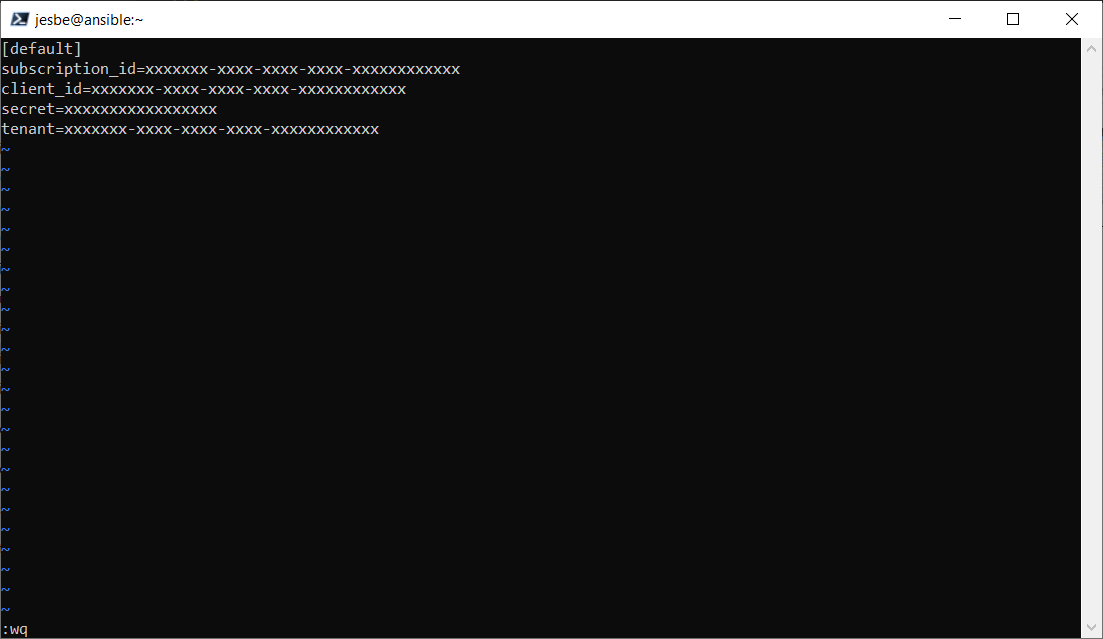
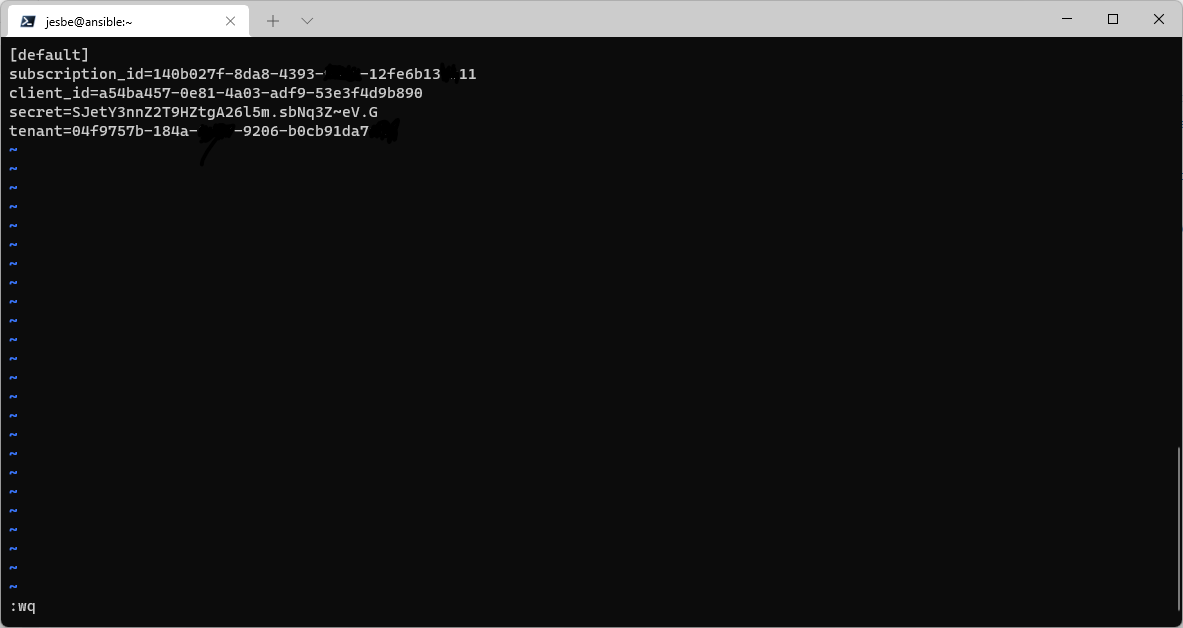
lab6 task2

diff --git a/lab06/lab6.md b/lab06/lab6.md
@@ -39,69 +39,47 @@ ansible-galaxy collection install azure.azcollection
 
 We need to register an azure application to enable ansible automation
 
+You can do it in the Cloud Shell thats our __preferred__ method or __OPTIONAL__ you can do it using the gui in the browser [Azure GUI](azure_gui.md)
+
 In your browser log on to [https://portal.azure.com](https://portal.azure.com)
 
-In the left pane, click "Azure Active Directory" and "App Registrations"
+In the top bar, click the "cloudshell" icon marked with red
 
-In the top click "New registration"
+![Alt text](pics/01_start_cloud_shell.png?raw=true "Cloud Shell")
 
-![Alt text](pics/002_azure_app_registration.png?raw=true "new azure app")
+Select "Bash"
 
-Type a Name, Call it "ansible-yourname" so its possible to ID it later
+![Alt text](pics/02_start_cloud_shell_bash.png?raw=true "Cloud Shell")
 
-Select the:
+Run the following command to create a new Service User
 
-**Note:** The Tenant name will be different than AzureADFS
+Set the user variable to your initials
 
-"Accounts in this organizational directory only (AzureADFS only - Single tenant)"
+```bash
 
-Should be default
+USER=jesbe
 
-Click Register
+az ad sp create-for-rbac --name ansible-$USER --role Contributor
 
-![Alt text](pics/003_azure_app_registration_name.png?raw=true "register azure app")
+```
 
-Copy the "Tenant ID" and "Client ID" save them in a text file for now
+Copy the JSON output to a notepad file we will need the information later
 
-![Alt text](pics/004_azure_app_tenent_id.png?raw=true "get tenant id client id")
+![Alt text](pics/02_create_sp.png?raw=true "Cloud Shell output")
 
-Click "Certificates & Secrets" and "New client secret"
+We need to get the Subscription ID run the following in the Cloud Shell
 
-![Alt text](pics/005_azure_app_client_secret.png?raw=true "new secret")
+```bash
 
-Copy the "Client Secret" save it in the text file
+az account show
 
-![Alt text](pics/006_azure_app_client_secret_value.png?raw=true "secret value")
+```
 
-We need to assign rights to the application
+![Alt text](pics/03_get_sub_id.png?raw=true "Cloud Shell sub id")
 
-In the left pane go to "All Services"
+Copy the line id: "xxx-xxx" to the same notepad
 
-In the right pane select "Subscribtions"
-
-![Alt text](pics/006_azure_subscribtion.png?raw=true "secret value")
-
-Select the Subscribtion, only one should be available
-
-![Alt text](pics/006_azure_select_subscribtion.png?raw=true "secret value")
-
-Click "Access Control IAM"
-
-Click "Add" Select "Add role assignment"
-
-Under "Role" select "Contributor"
-
-In the Select box, search for the application name **ansible-userx**
-
-Select your application and click Save
-
-![Alt text](pics/007_azure_assign_rights.png?raw=true "azure role assignment")
-
-Still in the Subscribtion pane, click the "Overview"
-
-Copy the "Subscribtion ID" to the text file
-
-![Alt text](pics/008_azure_sub_id.png?raw=true "azure sub id")
+__Below is for both command and GUI__ versions
 
 Log on to server "ansible" using ssh
 
@@ -132,6 +110,20 @@ subscription_id=xxxxxxx-xxxx-xxxx-xxxx-xxxxxxxxxxxx
 client_id=xxxxxxx-xxxx-xxxx-xxxx-xxxxxxxxxxxx
 secret=xxxxxxxxxxxxxxxxx
 tenant=xxxxxxx-xxxx-xxxx-xxxx-xxxxxxxxxxxx
+```
+
+```bash
+
+In the file 
+
+subscription_id = id from the last command
+
+client_id = appID in the first command
+
+secret = Password in the first command
+
+tenant = tenant in the first command
+
 ```
 
 **Type:**

diff --git a/lab06/azure_gui.md b/lab06/azure_gui.md
@@ -1,0 +1,69 @@
+# Azure App Registration with gui
+
+In your browser log on to [https://portal.azure.com](https://portal.azure.com)
+
+In the left pane, click "Azure Active Directory" and "App Registrations"
+
+In the top click "New registration"
+
+![Alt text](pics/002_azure_app_registration.png?raw=true "new azure app")
+
+Type a Name, Call it "ansible-yourname" so its possible to ID it later
+
+Select the:
+
+**Note:** The Tenant name will be different than AzureADFS
+
+"Accounts in this organizational directory only (AzureADFS only - Single tenant)"
+
+Should be default
+
+Click Register
+
+![Alt text](pics/003_azure_app_registration_name.png?raw=true "register azure app")
+
+Copy the "Tenant ID" and "Client ID" save them in a text file for now
+
+![Alt text](pics/004_azure_app_tenent_id.png?raw=true "get tenant id client id")
+
+Click "Certificates & Secrets" and "New client secret"
+
+![Alt text](pics/005_azure_app_client_secret.png?raw=true "new secret")
+
+Copy the "Client Secret" save it in the text file
+
+![Alt text](pics/006_azure_app_client_secret_value.png?raw=true "secret value")
+
+We need to assign rights to the application
+
+In the left pane go to "All Services"
+
+In the right pane select "Subscribtions"
+
+![Alt text](pics/006_azure_subscribtion.png?raw=true "secret value")
+
+Select the Subscribtion, only one should be available
+
+![Alt text](pics/006_azure_select_subscribtion.png?raw=true "secret value")
+
+Click "Access Control IAM"
+
+Click "Add" Select "Add role assignment"
+
+Under "Role" select "Contributor"
+
+In the Select box, search for the application name **ansible-userx**
+
+Select your application and click Save
+
+![Alt text](pics/007_azure_assign_rights.png?raw=true "azure role assignment")
+
+Still in the Subscribtion pane, click the "Overview"
+
+Copy the "Subscribtion ID" to the text file
+
+![Alt text](pics/008_azure_sub_id.png?raw=true "azure sub id")
+
+Go back to the lab
+
+[Back to Lab 06](lab6.md)

diff --git a/prepare.md b/prepare.md
@@ -10,7 +10,7 @@ __Note:__ Run the browser in Incognito/Private mode to avoid issues with cashed 
 
 ![Alt text](pics/01_azure_login.png?raw=true "Azure login")
 
-In the top blue bar, click the "cloudshell" icon marked with red
+In the top bar, click the "cloudshell" icon marked with red
 
 ![Alt text](pics/05_start_cloud_shell.png?raw=true "Cloud Shell")
 
@@ -42,7 +42,7 @@ __Note:__
 
 Username cannot be __root/administrator/admin/user/guest/owner/adm__
 
-__Use your initials as username__
+__Use your initials as username__ eg. jesbe
 
 Password must be complex
 
